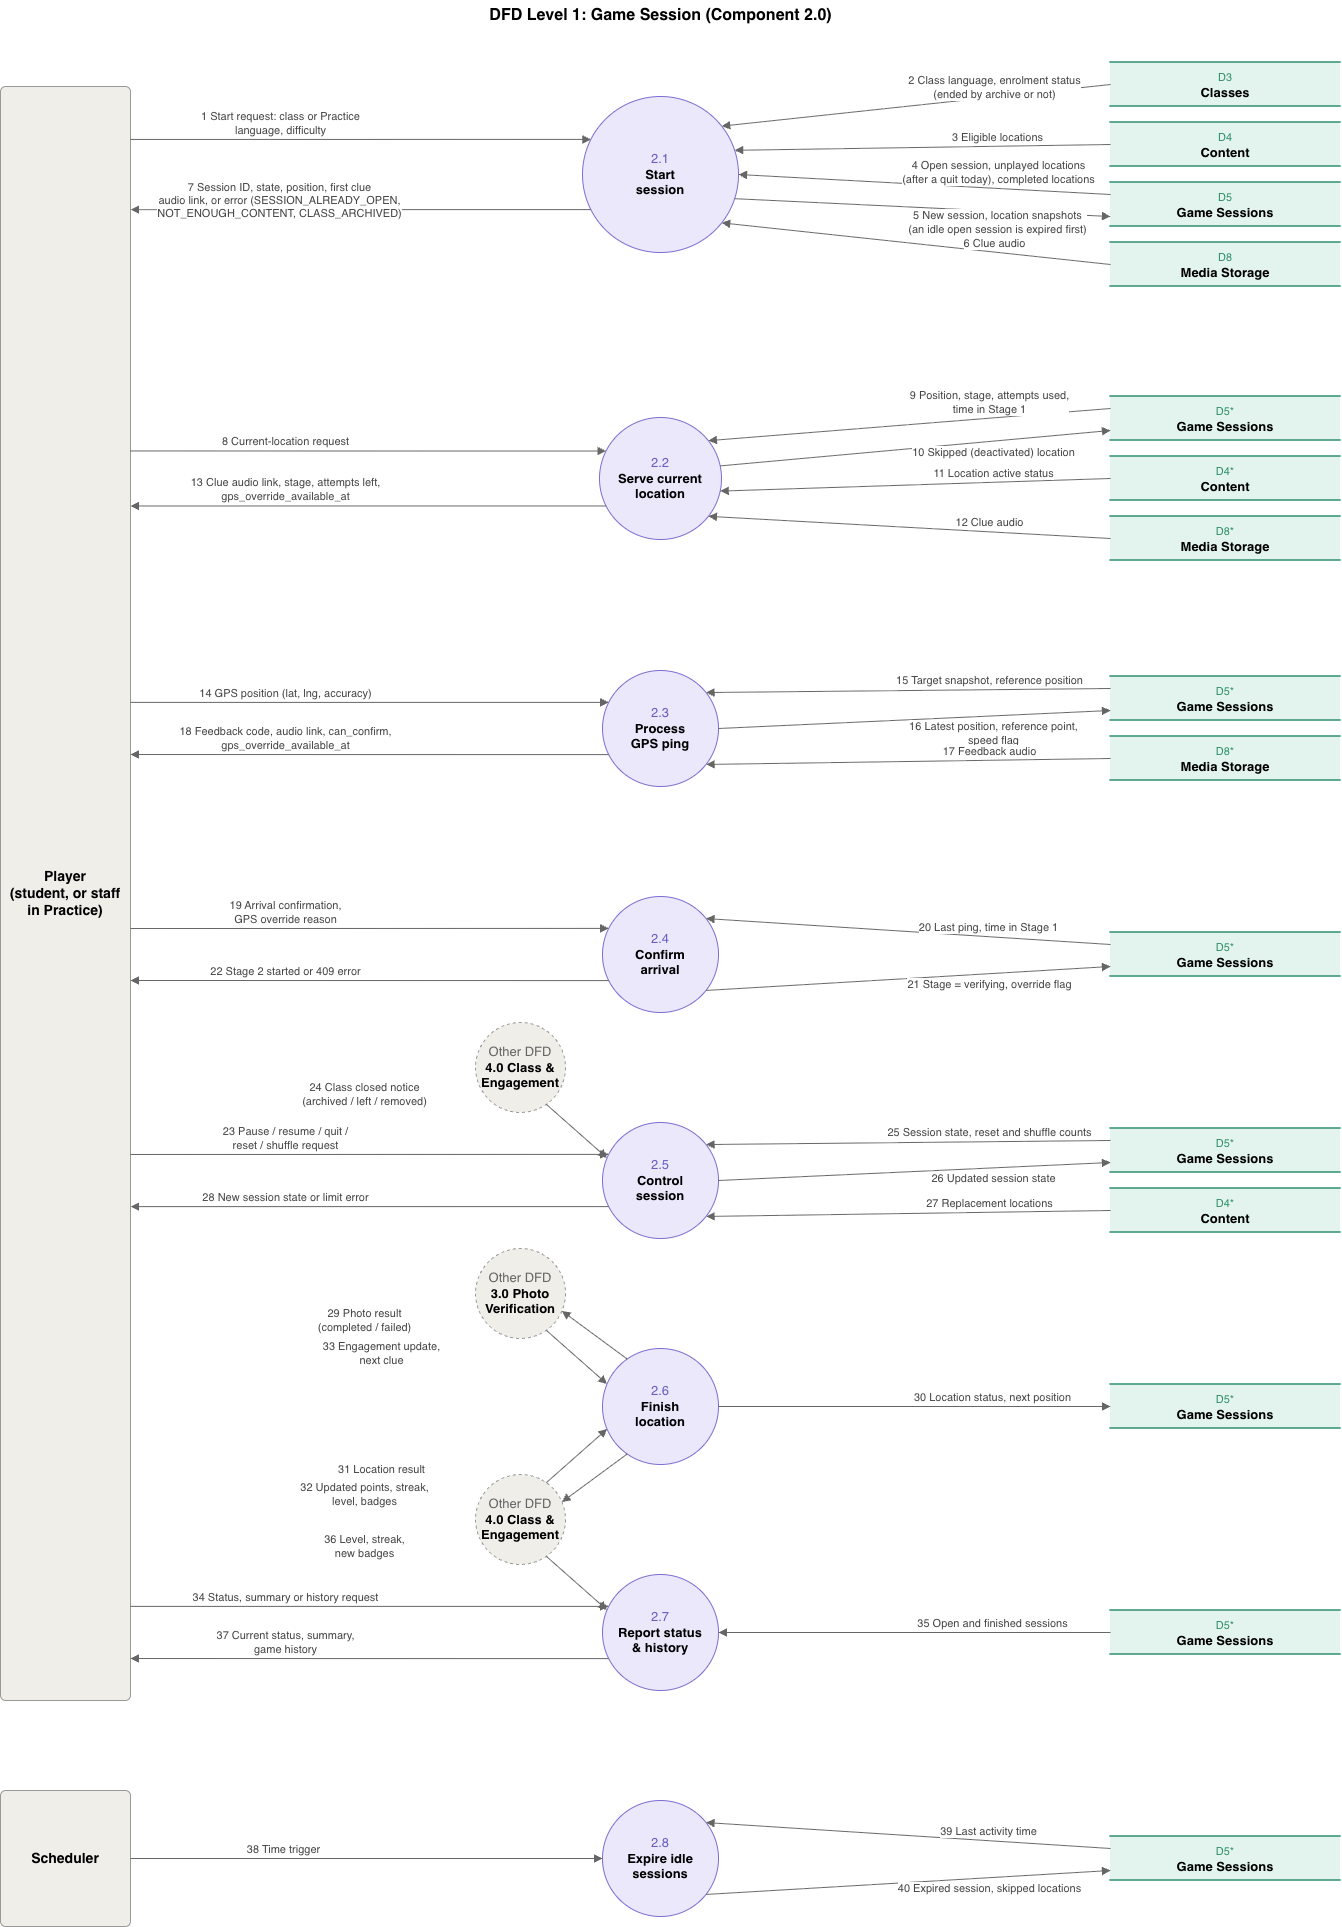
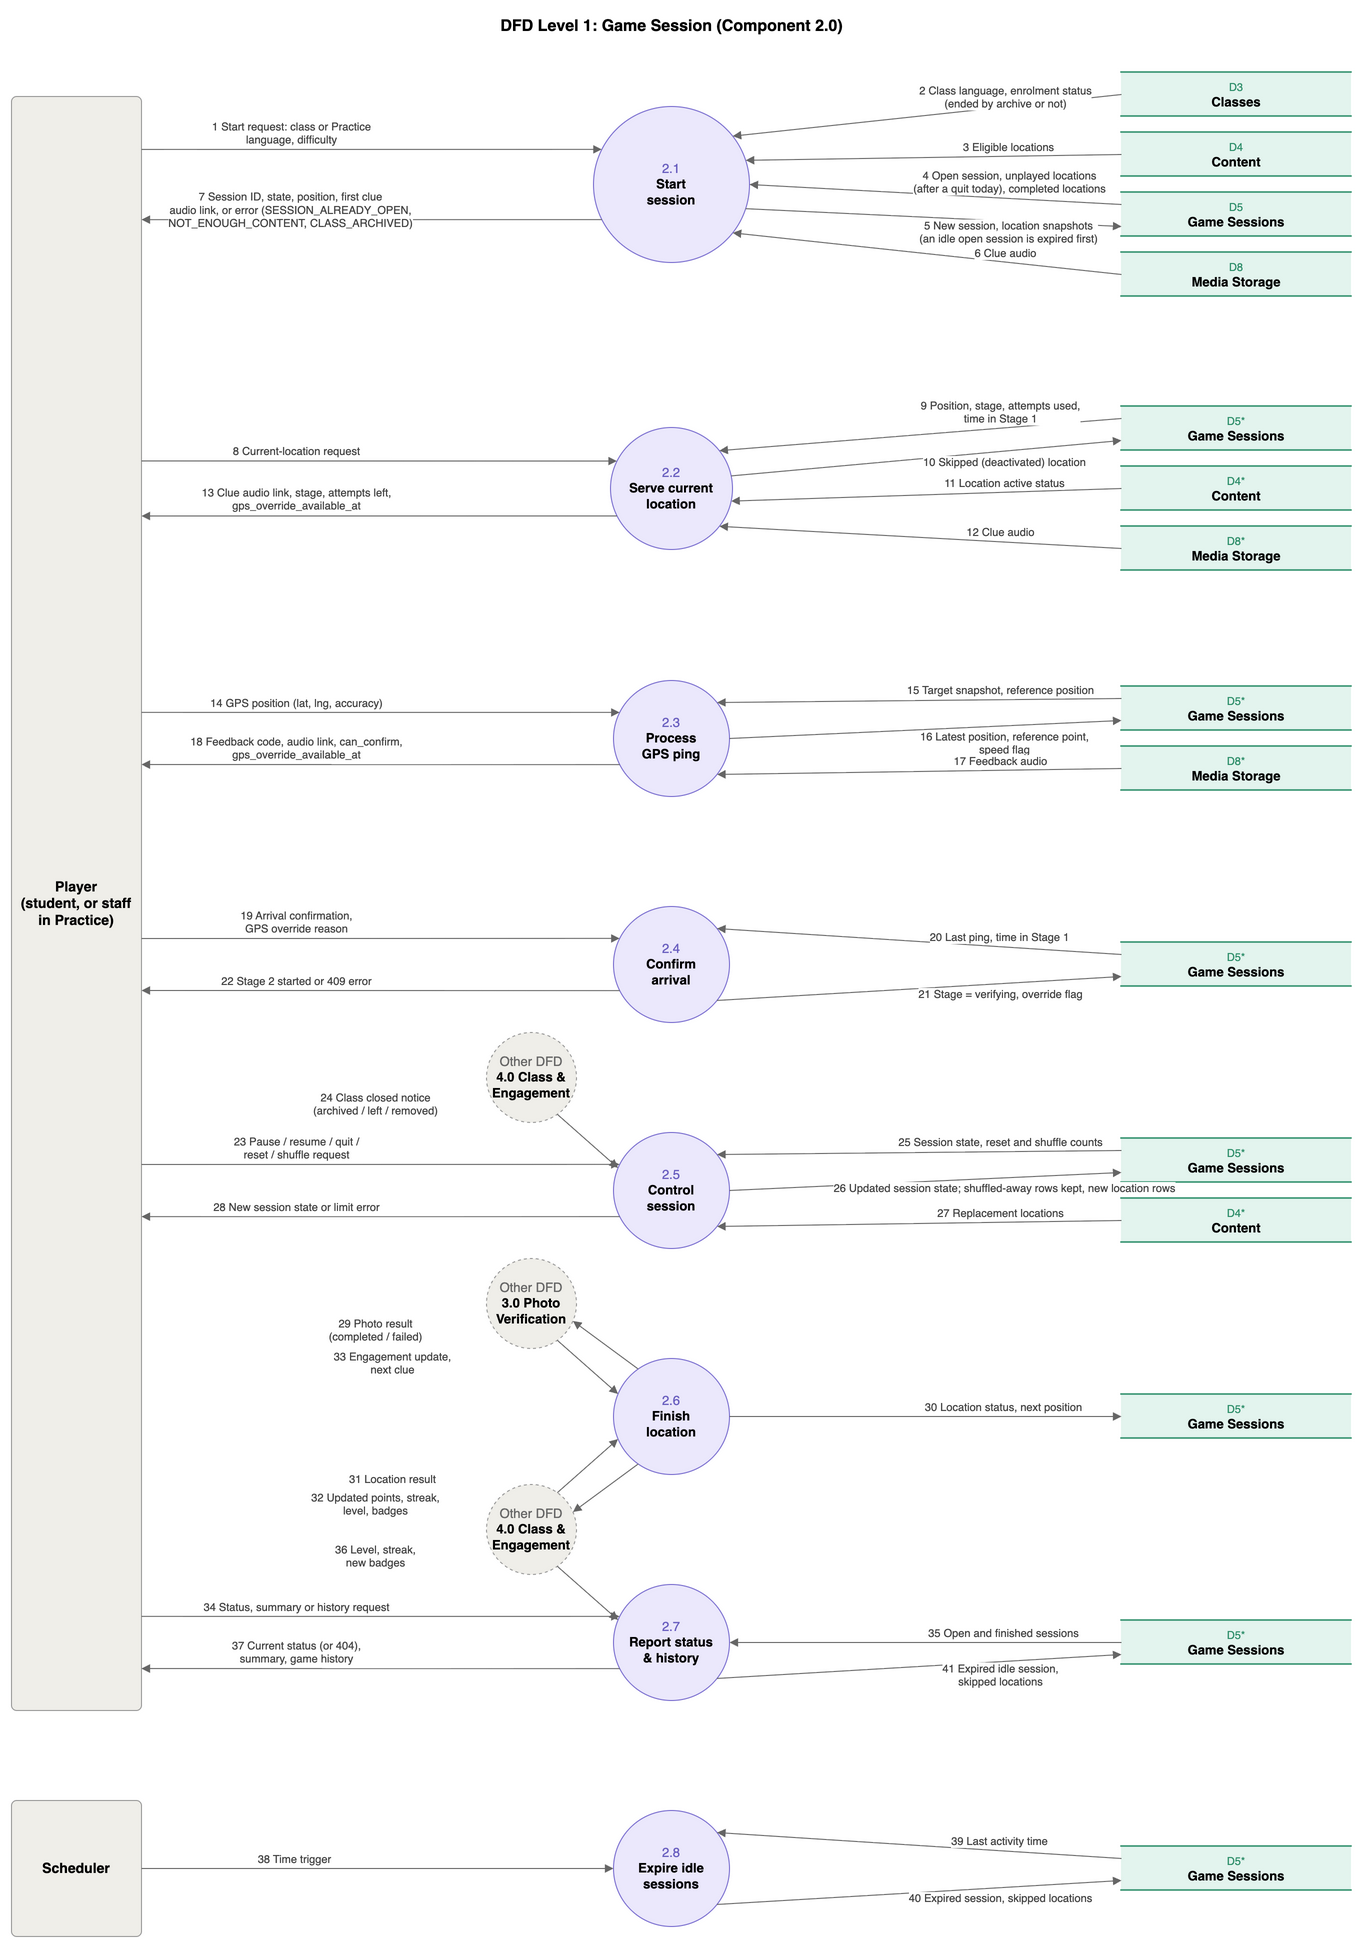
docs: add week 7 team log

diff --git a/logs/team/week-7.md b/logs/team/week-7.md
@@ -1,0 +1,79 @@
+# Week 7 Team Log (Oct. 19 - Oct. 25)
+
+Author: Mia Kuang
+
+This week, we focused on finishing the first user-facing endpoints for each component: classes and access codes for teachers, joining and leaving a class, choosing the current class, reading a game's status, uploading content, and enrolling at registration. The goal was that a teacher can set up a class, a student can join it and pick it, and a game's state can be read back, without anyone waiting on unmerged work.
+
+The work was distributed so that:
+
+- Mia worked on the current class and Practice language (A15: #235, #240, #241, #244, #247), so a student can choose which class the app follows with `PATCH /me/profile` and is refused while a game is open, and on game status (A25: #248, #249, #250), so a student can read their open game or any of their games with `GET /games/current` and `GET /games/{id}`. A25 was about 785 lines, so it was split into three PRs.
+
+- Fabiha finished the teacher side of classes (#84: #220, #221, #222, #245, #224, #260, #262, #263, #264): creating a class, its access codes (more codes, deactivating a code, and codes that expire at the end of the semester by default), updating class settings, and listing the classes a teacher or TA works in. #260 moved the routes to the spec's `/teacher/...` paths. She also finished joining and leaving a class (#85: #233, #252, #253).
+
+- Eddy worked on content management (A20: #219, #223, #226): checking uploaded audio and re-encoding it without metadata, the location and clue-text services, and uploading clue recordings with a primary recording per clue.
+
+- Kaedyn added enrolment to registration (A1: #215), so a student who signs up with an access code joins that class and it becomes their current class. He also merged the first part of sign-in (A2 part 1: #254) on Oct 25.
+
+Kaedyn's auth work is about three weeks behind the plan. Mia already took over the email part (verification, reset and the send-emails job) and finished it in week 6, so the rest of auth is sign-in and refresh tokens. If sign-in is still not merged next week, we will sit down and find out what is blocking it, and split the remaining auth work if needed.
+
+Based on the 27 merged PRs, we mostly met this goal:
+
+- **Engagement**: classes, access codes, class settings, class listing, joining and leaving
+- **Accounts**: choosing the current class and Practice language, enrolment at registration, and the first part of sign-in (A2 part 1: #254, merged Oct 25). The rest of sign-in is not merged yet, so the goal for accounts is only partly met.
+- **Game**: reading a game's status, open or finished, with idle games expired when they are read
+- **Content**: audio checks, locations, clue text and clue recordings
+
+The team collectively did the following to keep the code base free of repeated logic and tangled dependencies:
+
+- **One lock for anything that depends on the open game (#240, #252):** `lock_user` in `app/services/locks.py` locks the user row. Choosing a class, setting the Practice language, starting a game, joining a class and leaving a class all take it first, so a class switch and a game start can't both see "no open game" at the same moment.
+- **Accounts asks game, it does not read game sessions (#235, #247):** `get_open_session_id` and `refuse_if_game_open` in `app/game/interface.py` answer whether a student has an open game. The 409 `SESSION_ALREADY_OPEN` is built once in `game_already_open`, so `PATCH /me/profile` and `POST /games` always return the same error.
+- **One enrolment check (#244):** `require_active_enrolment` in the engagement interface decides whether a student can use a class, and returns `CLASS_ARCHIVED` only to students who were in the class when it was archived. Choosing a class and starting a game both call it, instead of each keeping its own copy of the rules.
+- **Registration reuses joining (#215):** registering with an access code calls `validate_code_and_enrol`, the same function the join route uses, so the code checks and the use count are only written once.
+- **Leaving a class reuses ending games (#252, #253):** the leave route calls `leave_class` in engagement and then `end_open_sessions` in game, in one transaction, the same way archiving does. Engagement still does not import game.
+- **One idle rule (#235, #248):** `session_idle_limit` reads the expiry setting in one place, and the status reads expire idle games with the existing `abandon_sessions` and `idle_condition`, so "idle" still has one definition.
+- **Shared content helpers (#219, #223, #226):** every upload goes through `check_audio` in `app/content/audio_files.py`, and setting a clue's text and uploading its recording both use `get_or_create_clue`, so a clue is created the same way in both places.
+- **Generated files kept in sync (#270, #271):** every PR re-exported `docs/api/openapi.json` and redrew the dependency graph, and CI checked both. The graph grew from 44 modules and 119 import edges to 53 modules and 161 import edges, and no rule is broken. These two files caused merge conflicts in almost every stacked PR this week, so we decided to stop committing them and have CI generate both instead, with the API reference and the graph published on GitHub Pages (merged Oct 25).
+
+Now, the team can confirm that the code base does not contain any of the following:
+
+- similar logic implemented multiple times
+- many dependencies between modules
+- changes in one component require changes elsewhere
+
+With everyone's newly merged work for this week, four of the DFDs below are updated and marked **Updated**. The other merged PRs fill in processes and flows that were already drawn.
+
+We considered alternative data flows:
+
+- **Accounts reads `game_sessions` to check for an open game.** We went through the game interface instead, so accounts does not depend on how game stores sessions, and the idle rule stays in game.
+- **The current class is fixed up when it is read.** The first version wrote the fallback class back to the user row on every read, so a read could overwrite a class the student was choosing at the same moment. Reads now only read, and the class is only written when the student chooses one, joins a class or leaves their current class.
+- **Status reads skip deactivated locations.** We left that to when the session moves on to the location, so reading a game's status writes nothing except an expiry.
+
+### DFD Level 0
+![DFD Level 0](img/dfd_level0_context.png)
+
+### DFD Level 1
+**1.0 Auth & Accounts (Updated)**
+- Flow 3 (1.1 Register account to D1) changed from "New user, password hash" to "New user, password hash, current class", because registering with an access code writes the current class directly (#215).
+
+![1.0 Auth & Accounts](img/dfd_level1_auth_accounts.png)
+
+**2.0 Game Session (Updated)**
+- Flow 37 returns the current status or 404.
+- The new flow 41 writes the expired idle session and its skipped locations when a status read finds an idle game (#248, #249, #250).
+
+![2.0 Game Session](img/dfd_level1_game_session.png)
+
+**3.0 Photo Verification (not changed)**
+
+![3.0 Photo Verification](img/dfd_level1_photo_verification.png)
+
+**4.0 Class & Engagement (Updated)**
+- Flow 4 (4.1 Set up classes to Teacher) changed from "Class details, 403 or 404" to "Class list or details, 403 or 404", because a teacher can now list all their classes (#262).
+
+![4.0 Class & Engagement](img/dfd_level1_class_engagement.png)
+
+**5.0 Content Management (Updated)**
+- Flow 10 (5.3 Upload clue audio to D4) changed from "Audio asset record, primary flag" to "Clue (created if missing), audio asset record, primary flag", because an upload creates the clue first when it does not exist (#226).
+- Flow 12 (5.3 to Content Manager) now also lists `UNSUPPORTED_MEDIA_TYPE` and `NOT_FOUND` next to `FILE_TOO_LARGE` and `AUDIO_TOO_LONG` (#226).
+
+![5.0 Content Management](img/dfd_level1_content_management.png)
